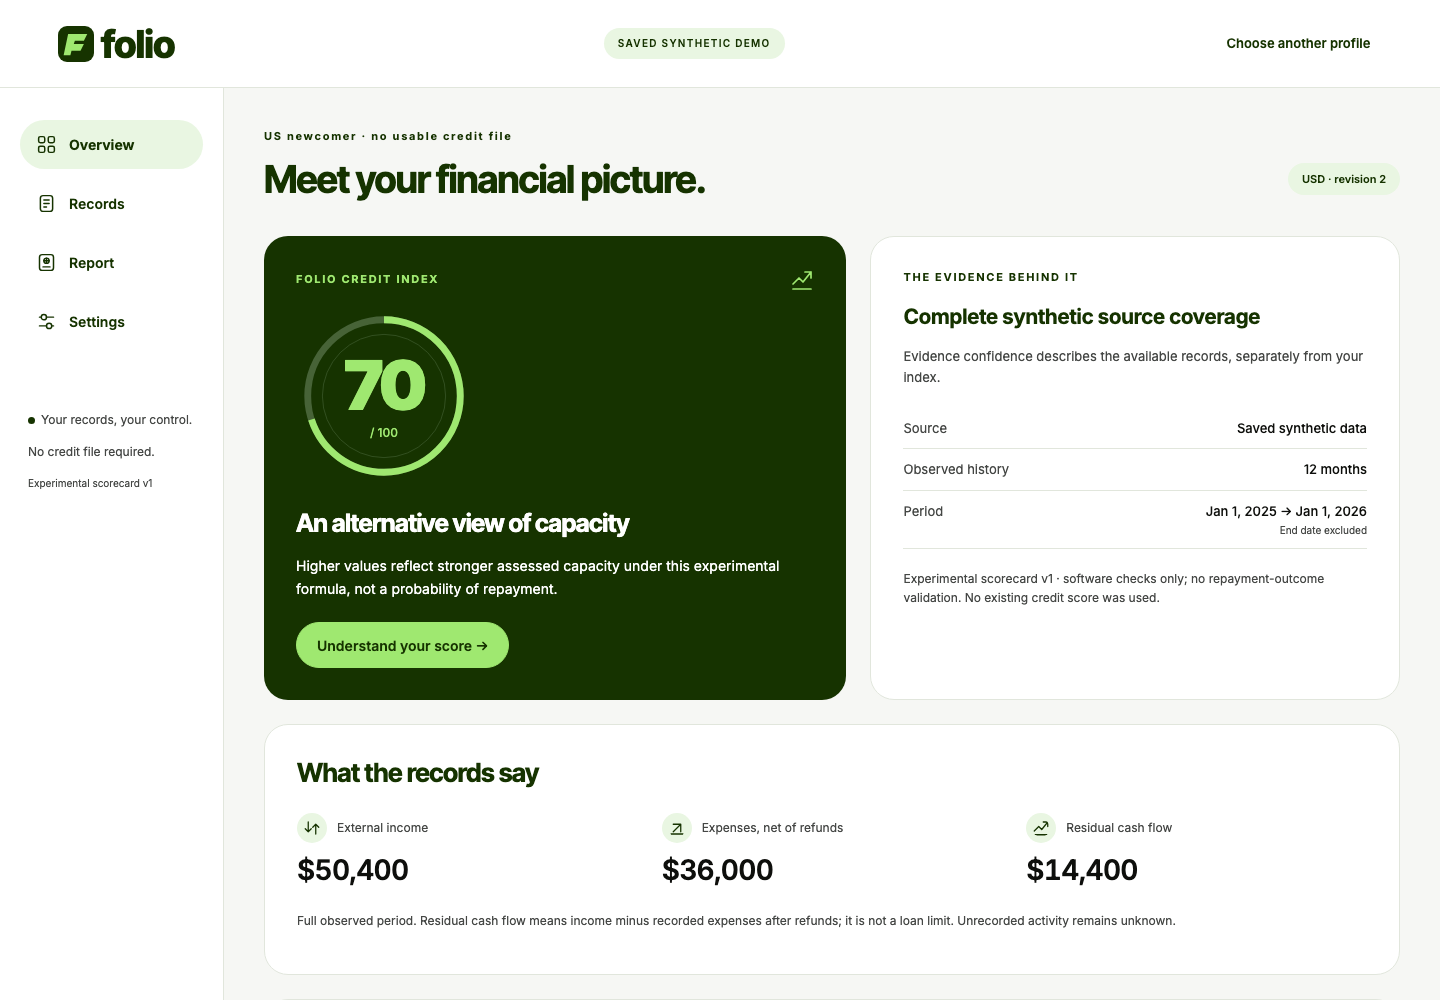
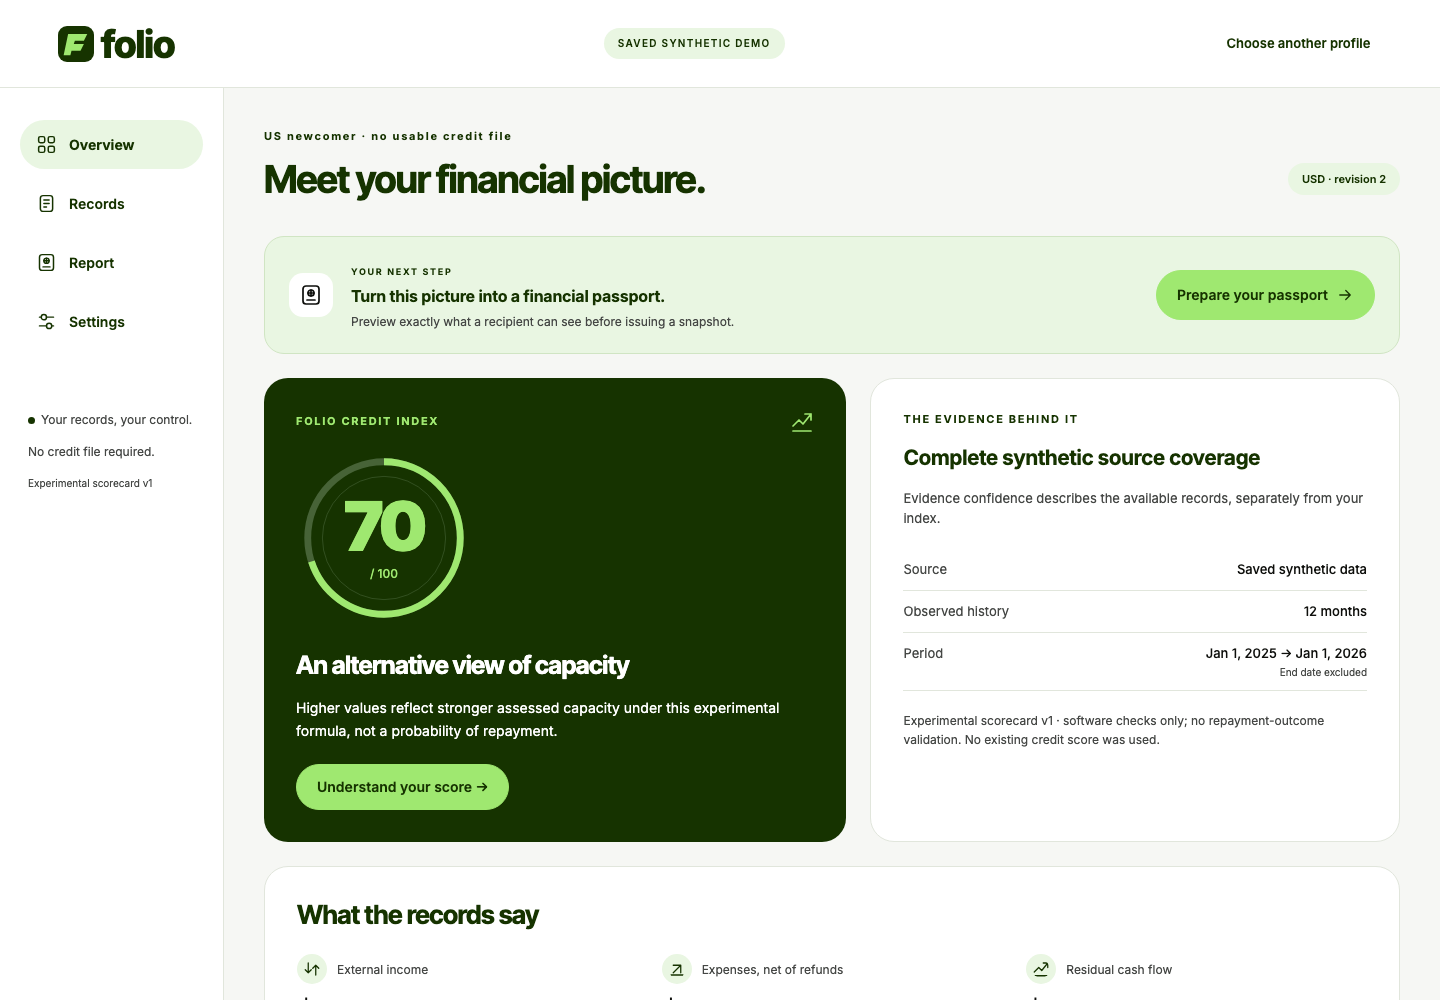
Document reviewed interactive flows with desktop and mobile evidence

diff --git a/docs/checkpoint-flows.md b/docs/checkpoint-flows.md
@@ -1,0 +1,42 @@
+# Interactive borrower flows
+
+Application and browser-test source: **6c3ff8ab058eb78c370b40e5b1182b8ea6c6a0e8**. Initial implementation: **f5dcd12f90d85ef7ab776c71891dd4000434ebcc**. Documentation and screenshots are committed afterward; they do not change application source.
+
+## Delivered
+
+- A four-step landing explorer with original SVG illustrations, useful explanations and a direct action into the selected synthetic demo.
+- An assessment evidence flow backed by the current workspace: record count and source type, actual saved corrections and unresolved classifications, deterministic index or actual evidence gaps, and passport revision status. Source and passport actions navigate directly to their destinations.
+- A sharing explorer that explains private records, immutable snapshots, optional recipient detail, active/revoked link counts, expiry and the limits of revocation. The preview state follows server loading, failure and retry. Unavailable factors are distinguished from an excluded disclosure.
+- A contextual Overview next step. Issuance preserves the user's open recipient preview. Link copying has confirmation and a selected-input fallback when clipboard access is unavailable.
+- Forest/lime/neutral styling, generous spacing, compact mobile grids in reading order, selected-state contrast, native focus, ordered tabs with Left/Right/Home/End, touch targets and reduced-motion support. Financial calculations, provider configuration, database schema and server access enforcement are unchanged.
+
+## Checks
+
+| Check | Evidence |
+|---|---|
+| Optimized build, TypeScript, lint | Pass at `6c3ff8a` |
+| Financial/API/database regression | 44/44, zero skipped, real Tiger Cloud tests enabled, during initial f5dcd12 implementation; financial and server source unchanged by `6c3ff8a` |
+| Full desktop/mobile browser suite | **22/22 passed** at `6c3ff8a`, including six new explorer cases; local log and screenshot hashes in `output/verification/flows-manifest.json` |
+| Responsive and accessibility | 1440/768/390/320 CSS pixels, existing 720px reflow approximation, zero axe violations in tested states; mobile touch emulation and reduced-motion checks |
+| New behavior | DOM/keyboard order; exact server score/gaps/counts; disclosure settings; unscored unavailable factors; preview focus/open persistence; clipboard success and failure; server revocation HTTP410; failed preview recovery |
+| Independent source review | Actual `claude-opus-5-5`, read-only official CLI, immutable exports of f5dcd12 and `6c3ff8a`; Codex ran checks separately |
+
+Reports: [initial review](../reviews/f5dcd12f90d85ef7ab776c71891dd4000434ebcc-followup.json) and [repair review](../reviews/6c3ff8ab058eb78c370b40e5b1182b8ea6c6a0e8-followup.json). No other agent processes were used.
+
+## Review disposition
+
+Claude found no P0–P2 defects and three P3 UX issues. All three were verified and repaired:
+
+1. Replaced the mobile snake ordering with 1–2 / 3–4, so keyboard and reading order agree. The 2→3 connector points diagonally down-left; screenshot inspection confirms placement. Bounding-box assertions at 768/390/320 already guard the reading order, despite the final review suggesting they were absent.
+2. A selected factor option with no available factors now reads **Not available** and explains why an unscored assessment has no factor breakdown. It cannot create financial evidence.
+3. Recipient-preview expansion now has its own state; issuing the first snapshot preserves it. A browser assertion checks the open preview after issuance.
+
+The first new-test run had incorrect expectations for reduced-motion duration and the HTML-shell response status, plus a selector that did not match the actual factor element. These test defects were corrected: zero animation, the actual `.report-factor` selector and the protected `/api/shared/<token>` endpoint. The full suite subsequently passed. The final independent scoped review reports all repairs in place and no new findings.
+
+## Reproduce and inspect
+
+Run `npm run lint`, `npm run build`, `npm run test:database`, and `npm run test:e2e`. Stop FOLIO app/test processes before rebuilding Next assets. Start with `PORT=3100 APP_URL=http://localhost:3100 npm start`. The [interactive demo walkthrough](demo.md#interactive-ux-walkthrough-no-new-provider-requests) reproduces the new interactions without consuming Nessie/Gemini quota.
+
+Screenshots use corrected synthetic Alex records (index70) and no live account identity. [Desktop evidence flow](images/evidence-explorer.png), [mobile evidence flow](images/mobile-evidence-explorer.png), [desktop sharing](images/sharing-explorer.png), [mobile sharing](images/mobile-sharing-explorer.png). Component screenshots hide fixed navigation to avoid covering content; viewport images retain it. `output/screenshots/*-explorer.png`, `*-flow-viewport.png` and `*-overview-refined.png` have SHA256 entries in the local manifest.
+
+This checkpoint does not certify physical-device or screen-reader behavior, complete WCAG compliance, public deployment, or Auth0 tenant login. Auth0 configuration remains pending. Existing actual Nessie/Gemini/Tiger evidence is preserved; no new provider success is claimed from these UI checks. Link counts describe the latest page update, while every server JSON/PDF request checks current expiry/revocation.

diff --git a/docs/demo.md b/docs/demo.md
@@ -31,3 +31,14 @@ Prepare two isolated US tabs: Alex's saved synthetic profile and a fresh dedicat
 The [official rules](https://swamphacks-xii.devpost.com/rules), checked2026-10-17, list October16–18, an October18 8am EDT deadline,36-hour event development, accepted human teams of2–4 and in-person judging. Supply the description, demo and accessible repository; credit tools/disclose AI assistance. Live demo:3 minutes; video:2 minutes. The team must verify its eligibility and submit. Software agents are not human teammates.
 
 Tiger Data evidence before judging: `npm run verify:persistence` tests two actual production app restarts with the configured cloud database, corrected totals, earlier immutable passport, sessions, expiry/revocation and another-session denial. The saved report avoids spending live demonstration time on restarts. Auth0/private PDF upload remains a separate acceptance step until tenant configuration is supplied. A service-free synthetic flow remains available if providers are unavailable; label that mode explicitly.
+
+## Interactive UX walkthrough (no new provider requests)
+
+1. On the landing page, select the four steps under **Your path from records to possibility.** Keyboard users can use Left/Right, Home and End. The final step can start the selected synthetic demo.
+2. Connect Alex’s saved synthetic records, correct the returned deposit to a transfer, then choose **See assessment**. In **Trace your result**, select Interpretation to see the saved correction count and Assessment to see the actual70 index beside the unscored alternative. Source records and Passport nodes lead directly to those destinations.
+3. Open Overview and use **Prepare your passport**. Expand **Explore the sharing flow**; change optional detail, then select Recipient view. The diagram follows the disclosure choices and server-preview loading/error state. **Inspect recipient preview** opens and focuses the actual preview.
+4. Generate a snapshot; the preview stays open. Create a seven-day link, use **Copy passport link**, then open it in a recipient tab. If clipboard access is unavailable, Folio selects the URL and explains manual copying.
+5. Revoke in Settings and return to the sharing flow: revoked counts change. Recipient JSON and PDF requests now fail. Counts are a snapshot of the latest page update; each server request checks current access.
+6. Repeat with Taylor’s limited evidence: the assessment branch stays unscored, actual gaps are listed, and the recipient diagram says the factor breakdown is unavailable. The optional checkbox does not create missing evidence.
+
+Mobile nodes follow reading order, 1–2 then3–4. Screenshots and exact checkpoint evidence: [interactive flows](checkpoint-flows.md). No new Nessie/Gemini request is made by these explorers.

diff --git a/README.md b/README.md
@@ -4,13 +4,13 @@
 
 ![FOLIO borrower journey: bring records, review interpretation, understand and share](docs/images/borrower-journey.png)
 
-[Desktop assessment](docs/images/desktop-assessment.png) · [Mobile assessment](docs/images/mobile-assessment.png) · [Interactive cash-flow preview](docs/images/cashflow.png)
+[Desktop assessment](docs/images/desktop-assessment.png) · [Mobile assessment](docs/images/mobile-assessment.png) · [Interactive cash-flow preview](docs/images/cashflow.png) · [Evidence flow](docs/images/evidence-explorer.png) · [Mobile flow](docs/images/mobile-evidence-explorer.png) · [Sharing flow](docs/images/sharing-explorer.png)
 
 Screenshots use explicitly synthetic demo records.
 
 ## Visual experience
 
-Original SVG journey illustrations, an assessment index ring, labelled factor bars, and a keyboard/touch cash-flow inspector make the borrower story visible. Graphics use the existing deterministic metrics, separate missing evidence from zero, and preserve passport disclosure choices. See the [graphics checkpoint](docs/checkpoint-graphics.md) for screenshots and independent Opus 5.5 review evidence.
+Three interactive flow explorers explain the borrower journey, trace actual records and corrections into the assessment, and show snapshot/disclosure/sharing boundaries. Ordered keyboard tabs, compact mobile layouts, reduced motion, contextual next steps and link-copy recovery complement the SVG illustrations, index ring and exact monthly cash-flow inspector. Every financial value comes from the existing deterministic contract; missing evidence stays unscored. See the [interactive-flow checkpoint](docs/checkpoint-flows.md) and [financial graphics checkpoint](docs/checkpoint-graphics.md) for checks, screenshots and independent Opus 5.5 review evidence.
 
 ## Core sponsor integrations
 
